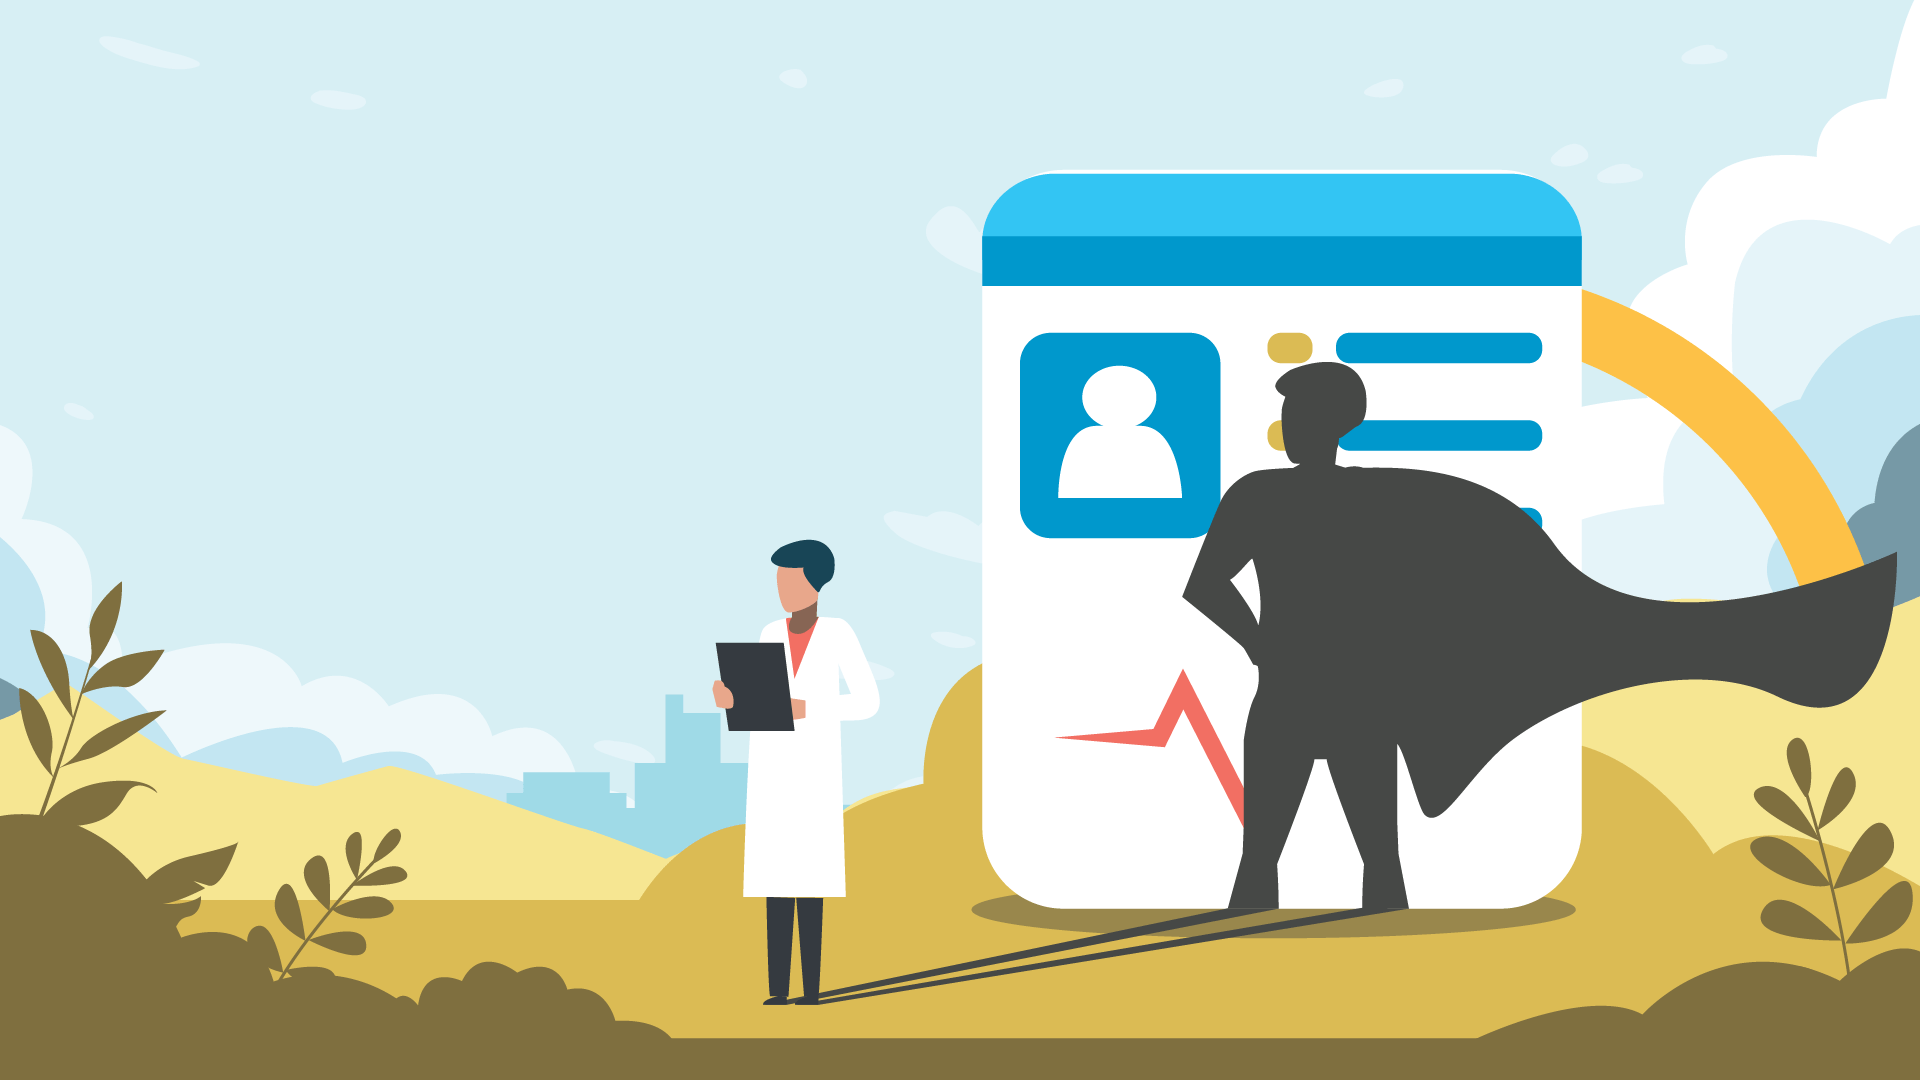
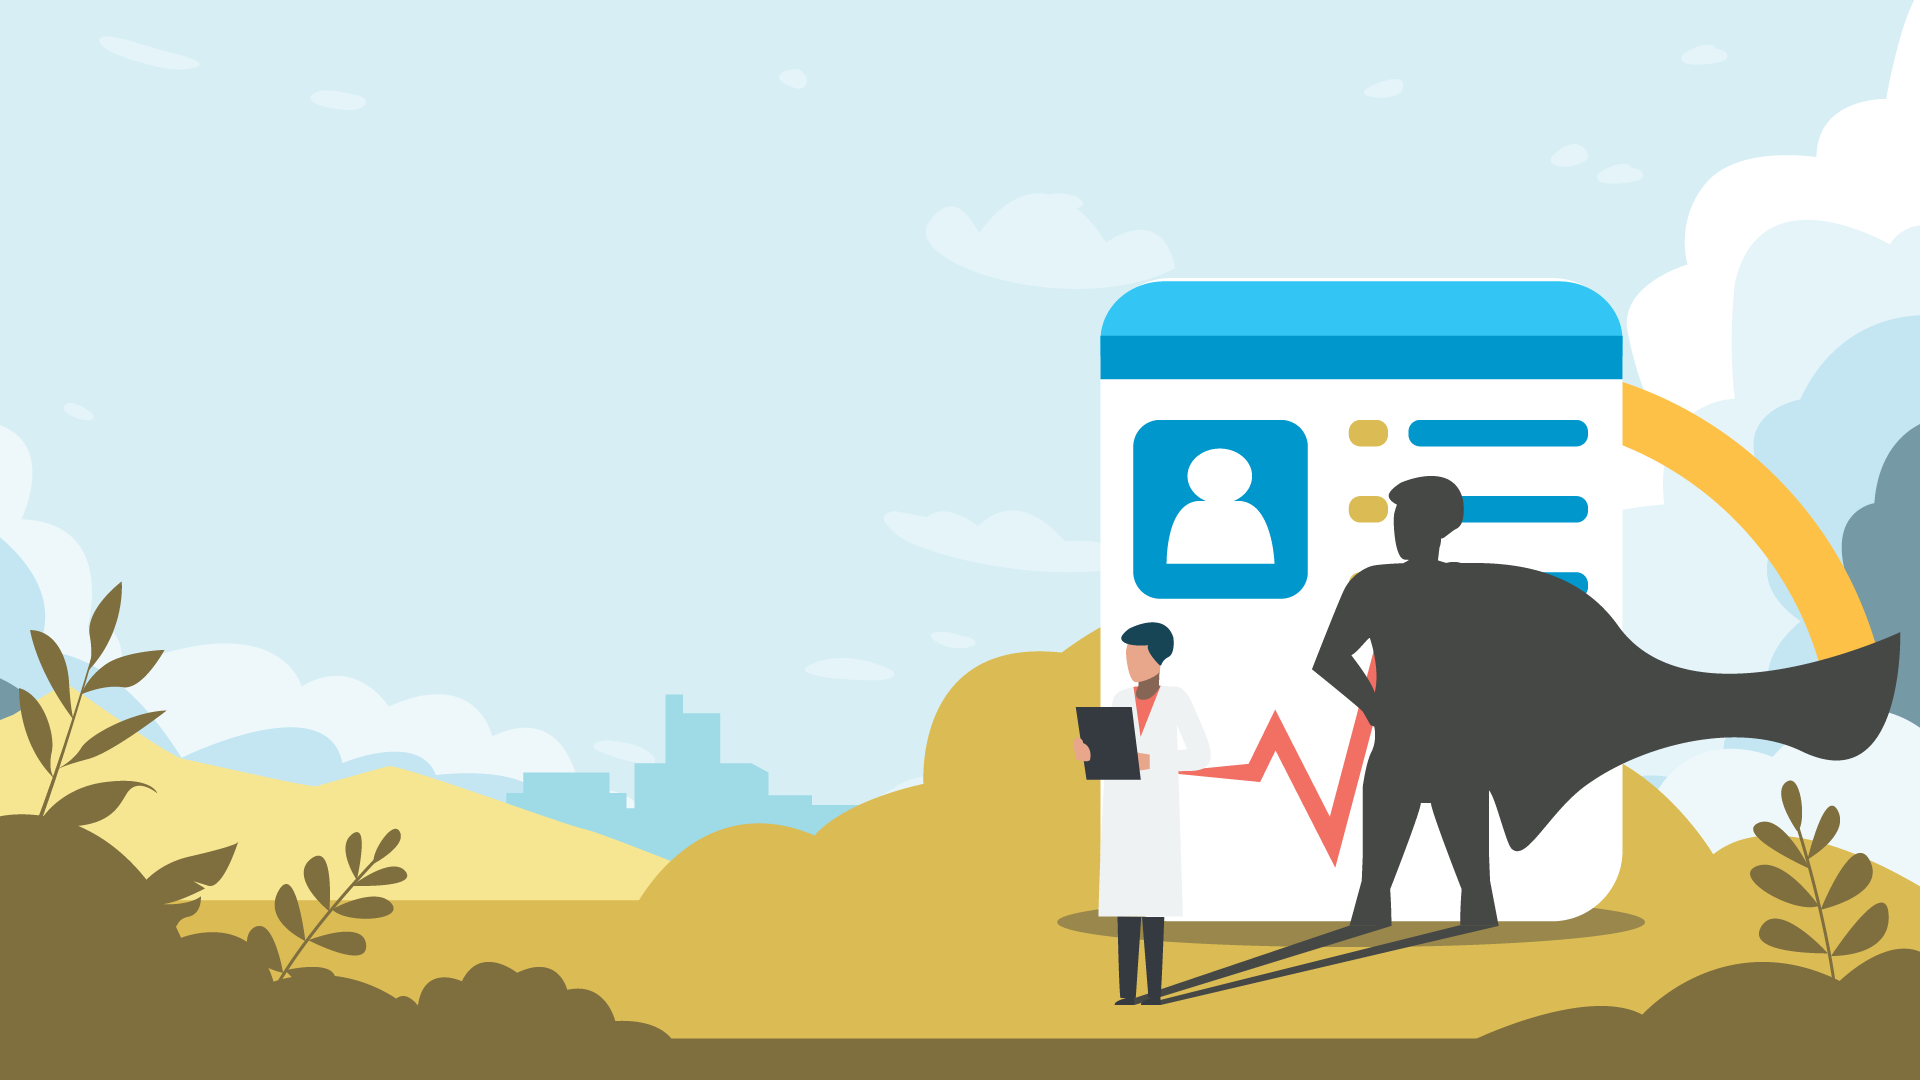
refactor: update doctor and telehealth usp

Changed region(s): [[0.375, 0.1528, 1.0, 0.9472]]

diff --git a/pages/telehealth/index.vue b/pages/telehealth/index.vue
@@ -2,11 +2,13 @@
   v-container(v-if="!loading" fluid).white
     //- 1st panel
     usp(
+      has-custom-background
+      background-image="Telehealth Landing Page"
       title="Everything you need to build your virtual practice"
       meta-title="MYCURE Telehealth"
       description="Starting a virtual practice has never been easier. Give your patients the quality care they deserve."
       btn-text="Get Started Free"
-      regular-height="650px"
+      regular-height="675px"
       image="Telehealth USP"
       image-width="90%"
       image-align="right"

diff --git a/pages/booking/index.vue b/pages/booking/index.vue
@@ -17,7 +17,8 @@
           ).typer
           span #[br] Safely
     //- 2nd panel
-    start-easy(:header-classes="headerClasses")
+    div.mx-n3.grey-bg
+      start-easy(:header-classes="headerClasses")
     //- 3rd - 5th panel
     features(
       :header-classes="headerClasses"
@@ -92,6 +93,10 @@ export default {
 </script>
 
 <style scoped>
+.grey-bg {
+  background-color: #fafafa;
+}
+
 .vue-typer >>> .custom.char.typed  {
   color: #04B1E7;
 }

diff --git a/pages/doctors-clinics/index.vue b/pages/doctors-clinics/index.vue
@@ -11,9 +11,11 @@
       custom-image-path="doctors-clinics/"
       image-align="right"
       btn-text="Get Started Free"
-      parse-title="regular"
+      parse-title
       :description="uspDescription"
       :parse-title-fields="['the ']"
+      :media-column-bindings="{ cols: 12, md: 6, offsetMd: 1, xl: 6}"
+      :content-column-bindings="{ cols: 12, md: 5 }"
     )
     //- 2nd panel
     div.grey-bg.mx-n3

diff --git a/components/commons/panels/SevenWondersUsp.vue b/components/commons/panels/SevenWondersUsp.vue
@@ -20,7 +20,7 @@
         )
           template(v-if="slottedTitle" slot="title")
             slot(name="title")
-          template(slot="image" v-if="$isMobile")
+          template(slot="image" v-if="!hasCustomBackground || $isMobile")
             img(
               :src="require(`~/assets/images/${customImagePath}${image}.png`)"
               :alt="image"
